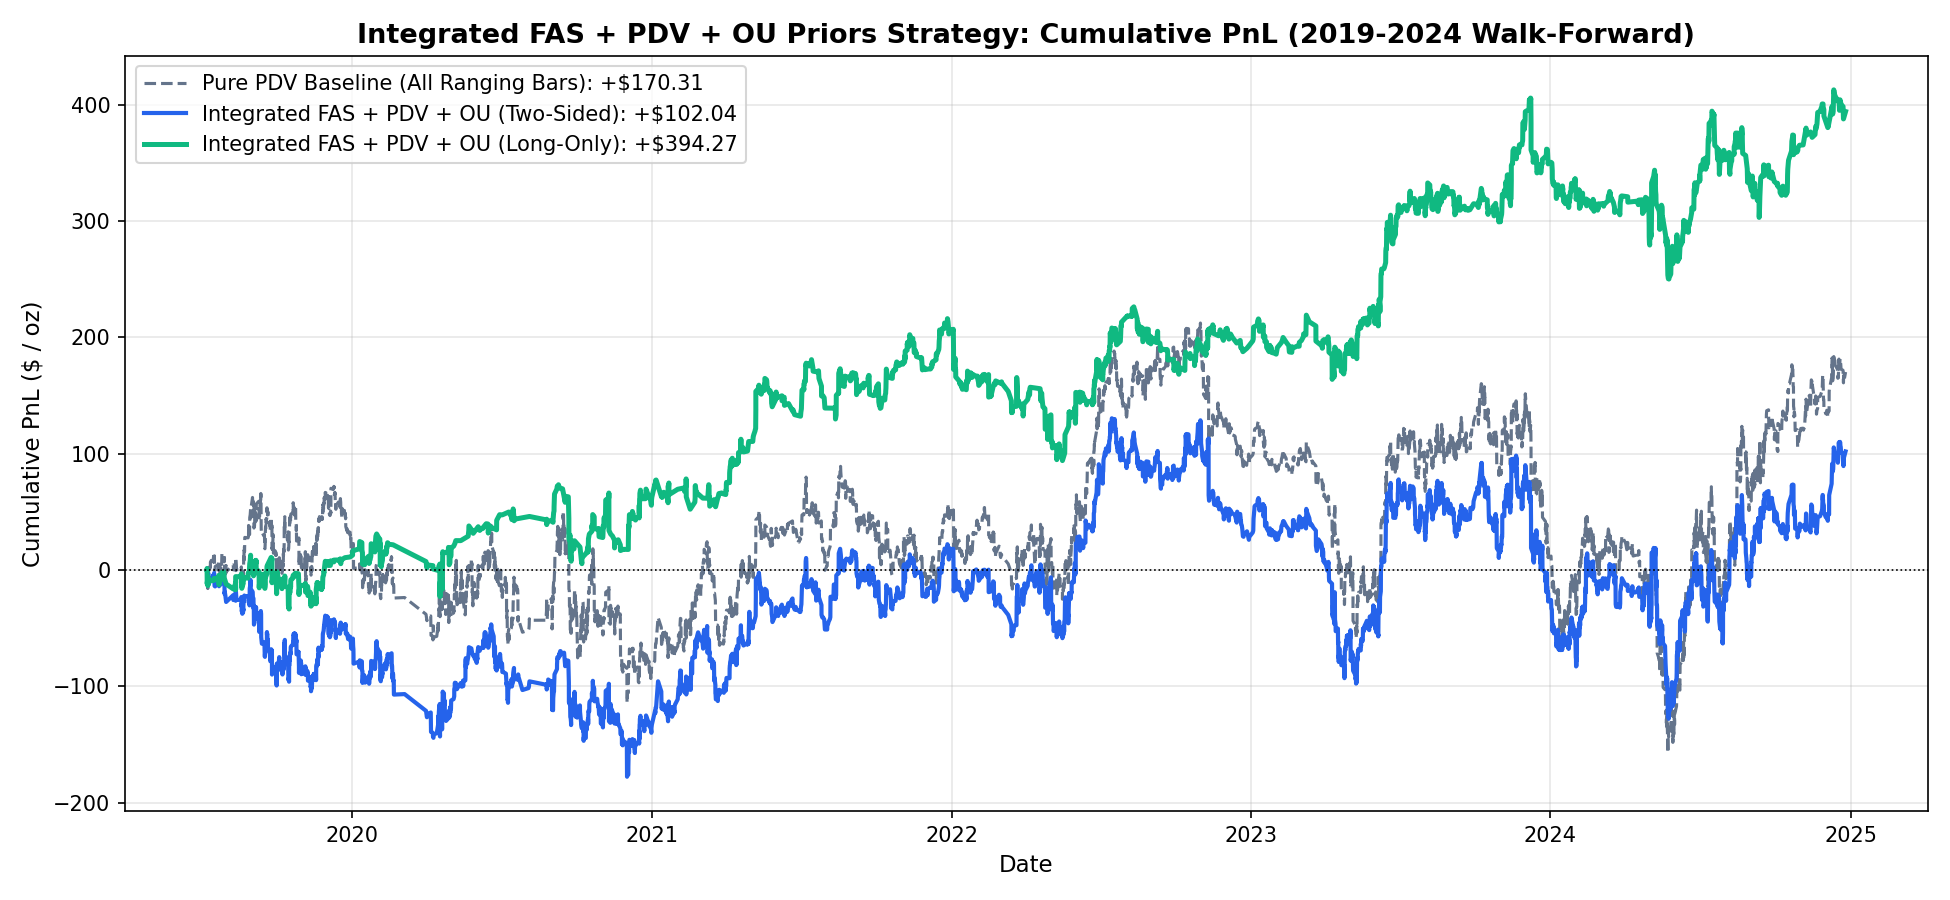
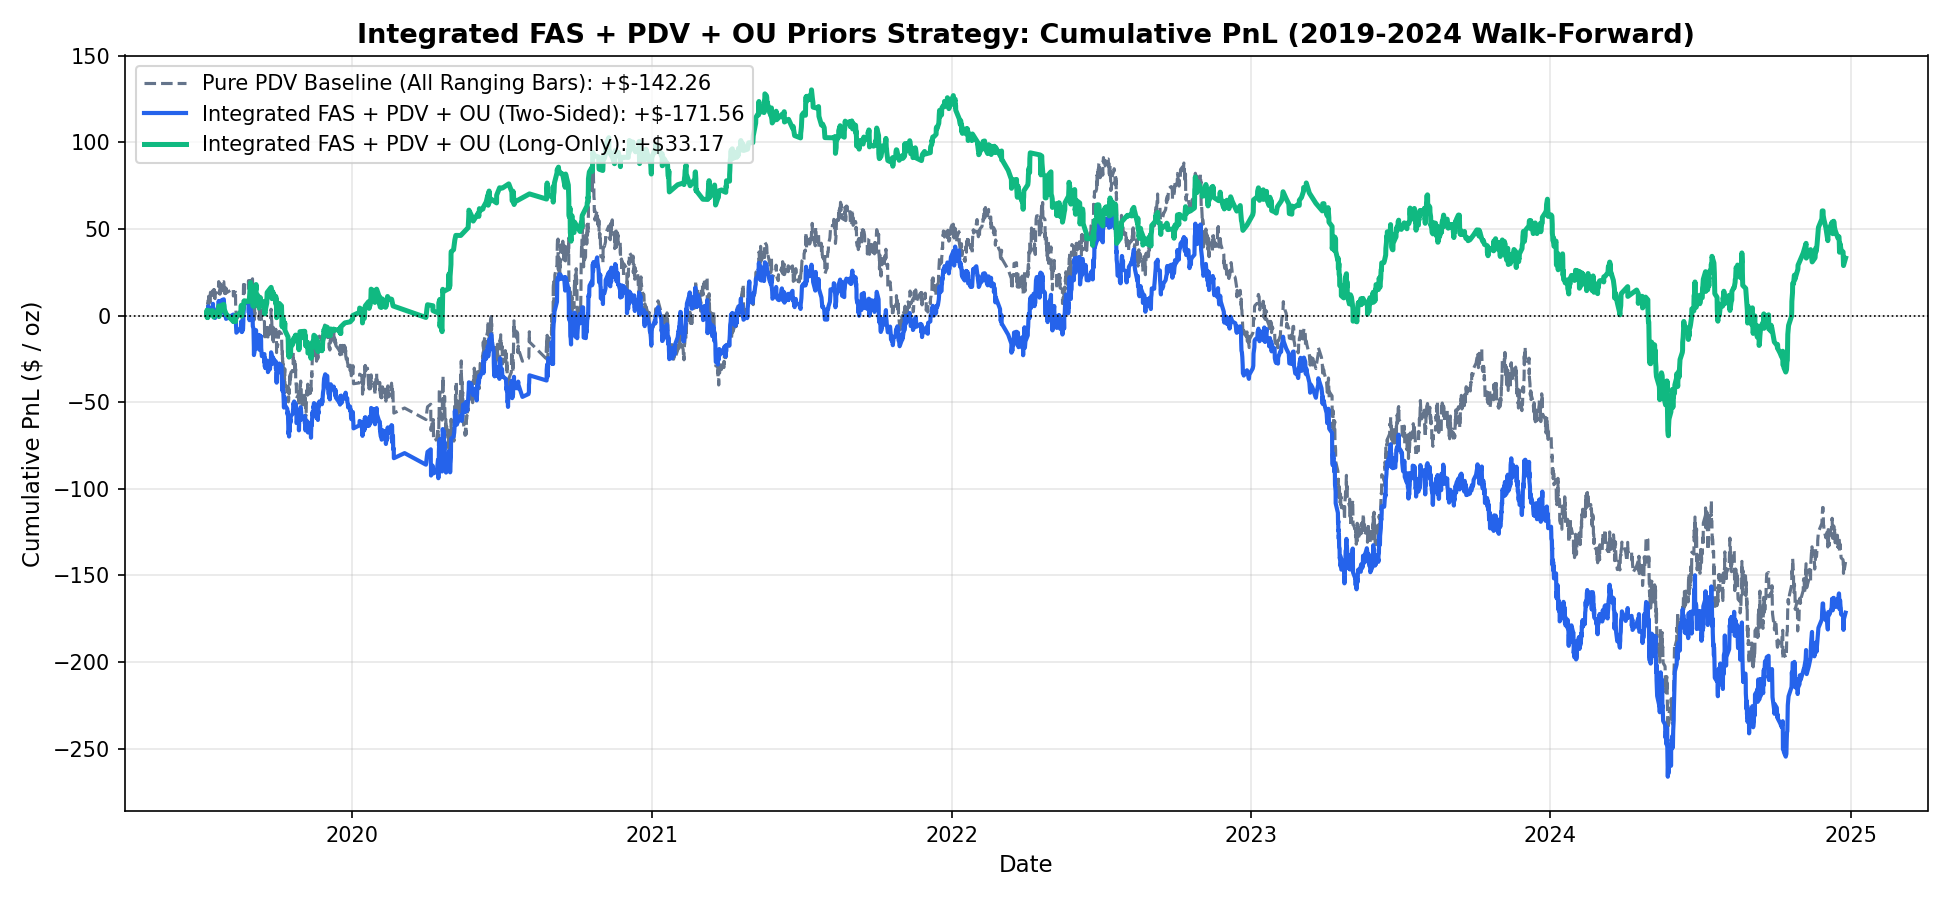
fix(pipeline): elevate sigma_hat floor to 5e-4 across all forecasting stages

diff --git a/new_engine/run_integrated_pipeline.py b/new_engine/run_integrated_pipeline.py
@@ -13,10 +13,14 @@ Generates:
 """
 
 import os
+import sys
 import json
 import numpy as np
 import pandas as pd
 import matplotlib.pyplot as plt
+
+# Ensure root repository is in Python path
+sys.path.insert(0, os.path.dirname(os.path.dirname(os.path.abspath(__file__))))
 
 from data_prep import prepare_and_cache_data
 from fas_features import compute_fas_features
@@ -57,7 +61,7 @@ def run_integrated_pipeline():
     oos_df = pd.read_parquet(oos_parquet)
     folds_df = pd.read_parquet(folds_parquet)
     oos_df = oos_df[~oos_df.index.duplicated(keep="first")].copy()
-    oos_df["sigma_hat"] = oos_df["sigma_hat"].clip(lower=1e-5)
+    oos_df["sigma_hat"] = oos_df["sigma_hat"].clip(lower=5e-4)
     print(f"  Loaded {len(oos_df):,} out-of-sample predictions across {len(folds_df)} folds.")
 
     # 4. Stage 3: Per-Transition OU Prior Calibration (train_ou_priors.py framework)
@@ -171,7 +175,7 @@ def run_integrated_pipeline():
 
     X_2025 = np.column_stack((np.ones(len(holdout_m5)), r1_2025, np.sqrt(r2_2025)))
     betas_frozen = np.array([last_fold["beta0"], last_fold["beta1"], last_fold["beta2"]])
-    sigma_hat_2025 = pd.Series(X_2025 @ betas_frozen, index=holdout_m5.index).clip(lower=1e-5)
+    sigma_hat_2025 = pd.Series(X_2025 @ betas_frozen, index=holdout_m5.index).clip(lower=5e-4)
 
     feat_2025 = generate_feature_dataframe(
         holdout_m5,

diff --git a/run_full_pipeline.py b/run_full_pipeline.py
@@ -46,8 +46,8 @@ def execute_full_pipeline():
     # Deduplicate any fold-boundary timestamps
     oos_df = oos_df[~oos_df.index.duplicated(keep="first")].copy()
     
-    # Ensure sigma_hat is clean and positive (raw out-of-sample forecasts from walk-forward folds)
-    oos_df["sigma_hat"] = oos_df["sigma_hat"].clip(lower=1e-5)
+    # Ensure sigma_hat is clean and floored above spread noise (minimum ~0.05% 24-bar vol)
+    oos_df["sigma_hat"] = oos_df["sigma_hat"].clip(lower=5e-4)
     print(f"OOS Sigma_hat: Mean={oos_df['sigma_hat'].mean()*10000:.2f} bps, Median={oos_df['sigma_hat'].median()*10000:.2f} bps")
         
     # 3. Analyze Baseline Shootout (Go / No-Go Gate)
@@ -245,7 +245,7 @@ def execute_full_pipeline():
     
     X_2025 = np.column_stack((np.ones(len(holdout_m5)), r1_2025, np.sqrt(r2_2025)))
     betas_frozen = np.array([last_fold["beta0"], last_fold["beta1"], last_fold["beta2"]])
-    sigma_hat_2025 = pd.Series(X_2025 @ betas_frozen, index=holdout_m5.index).clip(lower=1e-5)
+    sigma_hat_2025 = pd.Series(X_2025 @ betas_frozen, index=holdout_m5.index).clip(lower=5e-4)
     
     feature_df_2025 = generate_feature_dataframe(
         holdout_m5,

diff --git a/ou_transition_strategy.py b/ou_transition_strategy.py
@@ -85,7 +85,7 @@ def run_ou_transition_pipeline():
     folds_df = pd.read_parquet("walk_forward_folds.parquet")
 
     oos_df = oos_df[~oos_df.index.duplicated(keep="first")].copy()
-    oos_df["sigma_hat"] = oos_df["sigma_hat"].clip(lower=1e-5)
+    oos_df["sigma_hat"] = oos_df["sigma_hat"].clip(lower=5e-4)
 
     edge_spread = compute_edge_spread(df_m5, rolling_window=288)
 
@@ -190,7 +190,7 @@ def run_ou_transition_pipeline():
 
     X_2025 = np.column_stack((np.ones(len(holdout_m5)), r1_2025, np.sqrt(r2_2025)))
     betas_frozen = np.array([last_fold["beta0"], last_fold["beta1"], last_fold["beta2"]])
-    sigma_hat_2025 = pd.Series(X_2025 @ betas_frozen, index=holdout_m5.index).clip(lower=1e-5)
+    sigma_hat_2025 = pd.Series(X_2025 @ betas_frozen, index=holdout_m5.index).clip(lower=5e-4)
 
     feat_2025 = generate_feature_dataframe(
         holdout_m5,

diff --git a/calibrate_ou_transitions.py b/calibrate_ou_transitions.py
@@ -169,7 +169,7 @@ def run_transition_calibration(output_path: str = "ou_priors_xausd.json") -> Dic
     """Load data, run calibration, and save JSON."""
     oos_df = pd.read_parquet("walk_forward_oos_predictions.parquet")
     oos_df = oos_df[~oos_df.index.duplicated(keep="first")].copy()
-    oos_df["sigma_hat"] = oos_df["sigma_hat"].clip(lower=1e-5)
+    oos_df["sigma_hat"] = oos_df["sigma_hat"].clip(lower=5e-4)
     df_m5 = pd.read_parquet("xauusd_m5_clean.parquet")
 
     from regime_signals import generate_feature_dataframe

diff --git a/plot_pnl_comparison.py b/plot_pnl_comparison.py
@@ -13,7 +13,7 @@ ARTIFACT_DIR = "/Users/pulkitchauhan/.gemini/antigravity-ide/brain/2730d759-fd1c
 
 oos_df = pd.read_parquet("walk_forward_oos_predictions.parquet")
 oos_df = oos_df[~oos_df.index.duplicated(keep="first")].copy()
-oos_df["sigma_hat"] = oos_df["sigma_hat"].clip(lower=1e-5)
+oos_df["sigma_hat"] = oos_df["sigma_hat"].clip(lower=5e-4)
 df_m1 = pd.read_parquet("xauusd_m1_clean.parquet")
 df_m5 = pd.read_parquet("xauusd_m5_clean.parquet")
 
